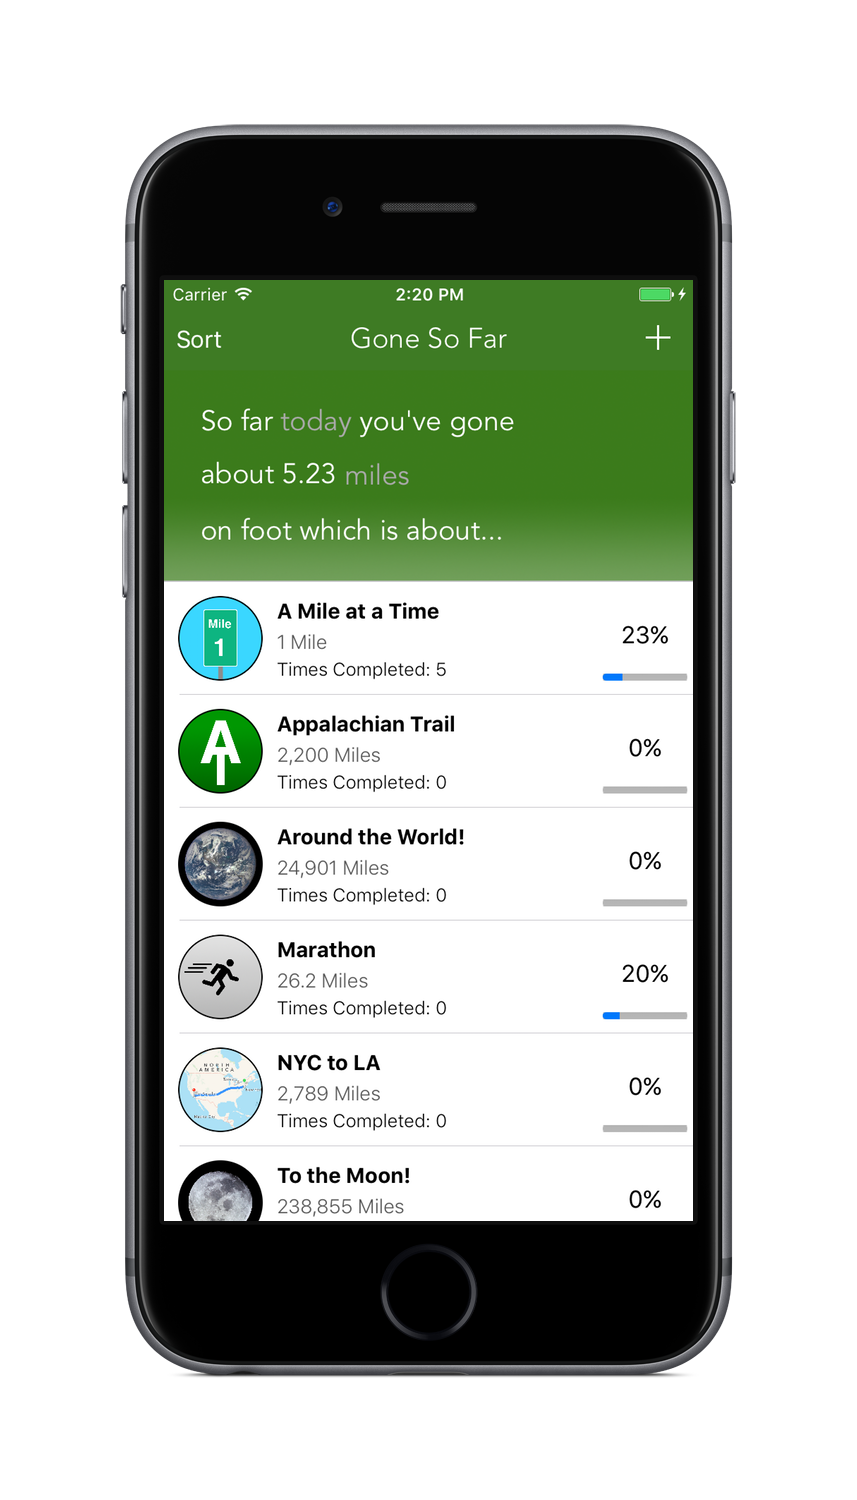
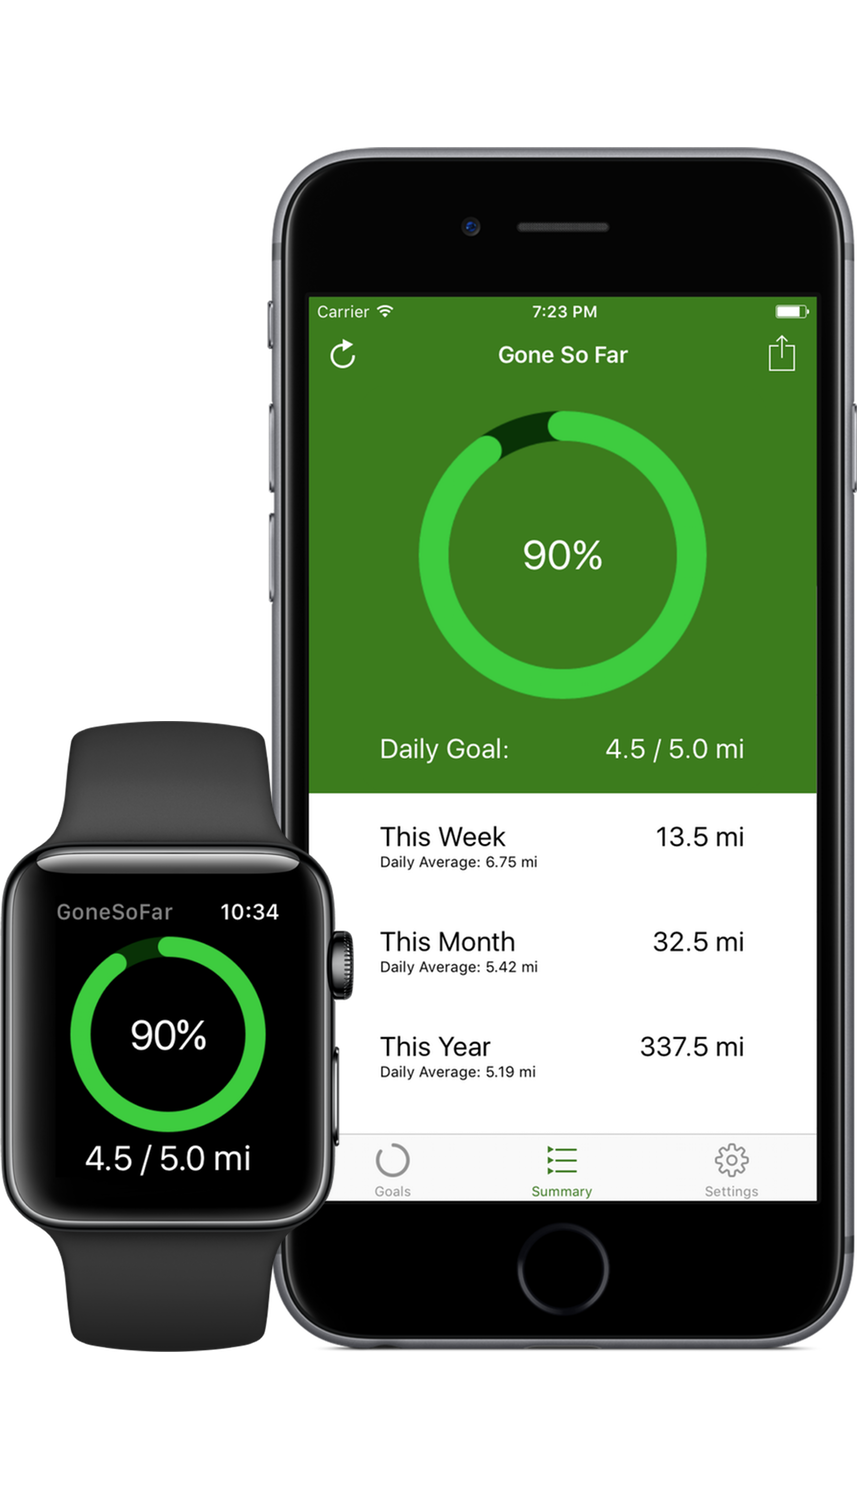
Updates.

diff --git a/posts/03-10-17_GSF-v2.html b/posts/03-10-17_GSF-v2.html
@@ -1,0 +1,110 @@
+
+<!DOCTYPE html>
+<html lang="en">
+
+<head>
+    <!-- ====== Title ====== -->
+    <title>Peter Mostoff - Blog</title>
+
+    <!-- ====== Meta ====== -->
+    <meta charset="utf-8">
+    <meta name="viewport" content="width=device-width, initial-scale=1.0">
+    <meta name="description" content="">
+    <!-- ====== End Meta ====== -->
+
+    <!-- ====== Favicon link ====== -->
+    <link rel="icon" href="../assets/images/favicon.png">
+    <!-- ====== Bootstrap CSS ====== -->
+    <link rel="stylesheet" href="../assets/css/bootstrap.min.css">
+    <!-- ====== Custom Theme CSS ====== -->
+    <link rel="stylesheet" href="../assets/css/theme.css">
+</head>
+
+<body data-spy="scroll">
+
+    <!-- ====== Header ====== -->
+    <header id="header" class="header">
+        <div class="container">
+            <h1 class="logo pull-left">
+                <a href="../index.html">
+                    <span class="logo-title">Mostoff.me</span>
+                </a>
+            </h1>
+            <nav id="main-nav" class="main-nav navbar-right">
+                <div class="navbar-header">
+                    <div class="btns back-button">
+                        <a class="btn btn-primary" href="../blog.html">Blog</a>
+                    </div>
+                    <!-- <button class="navbar-toggle" type="button" data-toggle="collapse" data-target="#navbar-collapse">
+                        <span class="sr-only">Toggle navigation</span>
+                        <span class="icon-bar"></span>
+                        <span class="icon-bar"></span>
+                        <span class="icon-bar"></span>
+                    </button> -->
+                </div>
+                <!-- <div class="navbar-collapse collapse" id="navbar-collapse">
+                    <ul class="nav navbar-nav">
+                        <li class="nav-item"><a class="scrollto" href="#about">About Me</a></li>
+                        <li class="nav-item"><a class="scrollto" href="#mywork">My Work</a></li>
+                        <li class="nav-item"><a class="scrollto" href="#blog">Blog</a></li>
+                        <li class="nav-item"><a class="scrollto" href="#contact">Contact</a></li>
+                    </ul>
+                </div> -->
+            </nav>
+        </div>
+    </header>
+    <!-- ====== End Header ====== -->
+
+    <!-- ====== Content ====== -->
+    <section id="content" class="content section">
+        <div class="container">
+            <div class="content-inner">
+                <div class="container">
+                    <div class="col-xs-12 col-sm-10 col-md-10">
+                        <h1>Gone So Far v2.0</h1>
+                        <h5>March, 10, 2017</h5>
+                        <hr>
+                    </div>
+                    <div class="col-xs-12 col-sm-10 col-md-10 doubleSpacing">
+                        <h3>A big (and overdue) update.</h3>
+                        <p>So it's been a while. Skipping to the good part, I've finally gotten around to puttting some work into app development again. I've been wanting to do an update for Gone So Far for quite some time now but, you know, life gets in the way of life sometimes. Over the past month or so, I've been able to hide away in my free time and get some coding done. </p>
+                        <p>So let's get to what's changed...</p>
+                        <h3>Some of the new bits: </h3>
+                        <ul>
+                          <li>Redesigned overall style of the app</li>
+                          <li>Summary tab that let's you get at your recent movement in a glance</li>
+                          <li>New Daily Goal feature to keep you moving</li>
+                          <li>Today Widget for quickly checking Daily Goal progress</li>
+                          <li>Apple Watch app for quickly checking Daily Goal progress</li>
+                          <li>Complications for your watch faces</li>
+                        </ul>
+                        <p>And finally... a complete rewrite for Swift 3. This was a big one. Swift is still a new language and while it's great in a lot of ways, it still has a bit of growing up to do. This was especially true when I originally wrote the app in Swift version 2. Since then, Swift 3 was released which changed a lot. Swift 3 made a lot of things about the language better and more useable but in turnit also ended up breaking a lot of things for apps written in Swift 2. In all honesty, it wasn't THAT bad. However, along with a busy schedule, it was a bit difficult for me at first to figure out all of the changes and get things fixed.</p>
+                        <p>After a while (maybe a few months...) of sporadically picking at code when I had the free time, I realized that it might just be best to start over. So I did! Very few pieces of the original app exist in version 2.0. I used my original project as a reference for some bits but for the most part it was a complete re-do. It was a bit more work than just updating but it gave me the chance to rethink some of the ways I was doing things and re-examine some core ideas that I had with version 1.0. In the end, the original app (adding goals and comparing) became a feature rather than the main focus.</p>
+                        <p>I'm more excited about this update than I thought I'd be. That probably has a lot to do with me thinking that it would be a simple update in code. With version 2.0 I feel like I've made something that comes even closer to my original goalfor the app. I wanted to make something to motivate myself to get up and go for walks more often. I was in pretty bad shape when I started the original project and during testing I had to walk a lot to test it out (I'm happy to say that a year later, I'm much more fit!). With v2, I think the Daily Goal feature and Summary screen make a much better argument for making me (and hopefully others) get up each day and hit my goal. I've gotta say, I'm proud of this one.</p>
+                        <p>So, what's next? I have a few more ideas for improvements and new features that I'd like to put into the app. Some of them... well I'm not quite sure how possible they are, so I'll have to play around with things and see what I can do. Either way, I hope to be much better about getting updates for important things (like new system features and compatability) out quickly now that I'm back into the swing of things. I also have a list of other app ideas that I'd like to try to work on, so hopefully I can find the time to do that as well. I'll probably post here if there's any news on those fronts.</p>
+                        <p>I really hope that anyone who uses Gone So Far enjoys it and finds it worth while. The original motivation still stands: I wanted to make something I would want to use and release it into the world for anyone else who could find it useful too.</p>
+                        <p><a href="https://itunes.apple.com/us/app/gone-so-far/id1080412492?ls=1&mt=8">Here’s a link to Gone So Far ($0.99) on the App Store.</a></p>
+                    </div>
+                </div>
+            </div>
+        </div>
+    </section>
+    <!-- ====== End Content ====== -->
+
+    <!-- ====== Footer ====== -->
+    <footer class="footer">
+        <div class="container">
+            <p>&copy; 2017 Peter Mostoff</p>
+        </div>
+    </footer>
+    <!-- ====== End Footer ====== -->
+
+    <!-- ====== Javascript ====== -->
+    <script type="text/javascript" src="../assets/scripts/jquery-2.2.0.min.js"></script>
+    <script type="text/javascript" src="../assets/scripts/jquery.easing.1.3.js"></script>
+    <script type="text/javascript" src="../assets/scripts/jquery.scrollTo.js"></script>
+    <script type="text/javascript" src="../assets/scripts/bootstrap.min.js"></script>
+    <script type="text/javascript" src="../assets/scripts/main.js"></script>
+    <!-- ====== End Javascript ====== -->
+</body>
+</html>

diff --git a/index.html b/index.html
@@ -86,11 +86,11 @@
                 <div class="col-xs-12 col-sm-6 col-md-4 col-centered">
                     <div class="panel panel-default">
                         <div class="panel-body doubleSpacing">
-                            <img class="PreviewImage" src="assets/images/GoneSoFar/GoneSoFar_Promo.png" alt="Project Thumbnail"/>
+                            <img class="PreviewImage" src="assets/images/Blog-Thumbnails/GoneSoFar_Promo_v2.png" alt="Project Thumbnail"/>
                         </div>
                         <div class="panel-footer">
                             <h4>Gone So Far</h4>
-                            <p>An iPhone app that let's you compare how far you've walked to different distances around the world!</p>
+                            <p>A simple and intuitive fitness tracker designed to motivate!</p>
                             <a class="btn btn-primary" href="gonesofar/index.html">More Details...</a>
                         </div>
                     </div>
@@ -145,6 +145,22 @@
                     <div class="col-xs-12 col-sm-6 col-md-4 col-centered">
                         <div class="panel panel-default">
                             <div class="panel-body doubleSpacing">
+                                <img class="PreviewImage" src="assets/images/Blog-Thumbnails/GoneSoFar_Promo_v2.png" alt="Blog Post Thumbnail"/>
+                            </div>
+                            <div class="panel-footer">
+                                <h4>Gone So Far v2.0</h4>
+                                <p>
+                                    Details about v2.0, a major update that I've been working on!
+                                </p>
+                                <br/>
+                                <a class="btn btn-primary" href="posts/03-10-17_GSF-v2.html">View Post</a>
+                            </div>
+                        </div>
+                    </div>
+                    <!-- Post 2 -->
+                    <div class="col-xs-12 col-sm-6 col-md-4 col-centered">
+                        <div class="panel panel-default">
+                            <div class="panel-body doubleSpacing">
                                 <img class="PreviewImage" src="assets/images/Blog-Thumbnails/Website.png" alt="Blog Post Thumbnail"/>
                             </div>
                             <div class="panel-footer">
@@ -154,22 +170,6 @@
                                 </p>
                                 <br/>
                                 <a class="btn btn-primary" href="posts/02-16-16_Website-CMD-R.html">View Post</a>
-                            </div>
-                        </div>
-                    </div>
-                    <!-- Post 2 -->
-                    <div class="col-xs-12 col-sm-6 col-md-4 col-centered">
-                        <div class="panel panel-default">
-                            <div class="panel-body doubleSpacing">
-                                <img class="PreviewImage" src="assets/images/Blog-Thumbnails/GoneSoFar_Promo.png" alt="Blog Post Thumbnail"/>
-                            </div>
-                            <div class="panel-footer">
-                                <h4>Releasing My First App</h4>
-                                <p>
-                                    Some details about the release of my first app, Gone So Far.
-                                </p>
-                                <br/>
-                                <a class="btn btn-primary" href="posts/02-15-16_Releasing-My-First_App.html">View Post</a>
                             </div>
                         </div>
                     </div>
@@ -223,7 +223,7 @@
     <!-- ====== Footer ====== -->
     <footer class="footer">
         <div class="container">
-            <p>&copy; 2016 Peter Mostoff</p>
+            <p>&copy; 2017 Peter Mostoff</p>
         </div>
     </footer>
     <!-- ====== End Footer ====== -->

diff --git a/blog.html b/blog.html
@@ -61,7 +61,23 @@
             <div class="content-inner">
             <h2 class="title text-center">Blog</h2>
                 <div class="row row-centered">
-                    <!-- Post 1 -->
+                  <!-- Post 1 -->
+                  <div class="col-xs-12 col-sm-6 col-md-4 col-centered">
+                      <div class="panel panel-default">
+                          <div class="panel-body doubleSpacing">
+                              <img class="PreviewImage" src="assets/images/Blog-Thumbnails/GoneSoFar_Promo_v2.png" alt="Blog Post Thumbnail"/>
+                          </div>
+                          <div class="panel-footer">
+                              <h4>Gone So Far v2.0</h4>
+                              <p>
+                                  Details about v2.0, a major update that I've been working on!
+                              </p>
+                              <br/>
+                              <a class="btn btn-primary" href="posts/03-10-17_GSF-v2.html">View Post</a>
+                          </div>
+                      </div>
+                  </div>
+                    <!-- Post 2 -->
                     <div class="col-xs-12 col-sm-6 col-md-4 col-centered">
                         <div class="panel panel-default">
                             <div class="panel-body doubleSpacing">
@@ -77,11 +93,11 @@
                             </div>
                         </div>
                     </div>
-                    <!-- Post 2 -->
+                    <!-- Post 3 -->
                     <div class="col-xs-12 col-sm-6 col-md-4 col-centered">
                         <div class="panel panel-default">
                             <div class="panel-body doubleSpacing">
-                                <img class="PreviewImage" src="assets/images/Blog-Thumbnails/GoneSoFar_Promo.png" alt="Blog Post Thumbnail"/>
+                                <img class="PreviewImage" src="assets/images/Blog-Thumbnails/GoneSoFar_Promo_v1.png" alt="Blog Post Thumbnail"/>
                             </div>
                             <div class="panel-footer">
                                 <h4>Releasing My First App</h4>
@@ -93,7 +109,7 @@
                             </div>
                         </div>
                     </div>
-                    <!-- Post 3 -->
+                    <!-- Post 4 -->
                     <div class="col-xs-12 col-sm-6 col-md-4 col-centered">
                         <div class="panel panel-default">
                             <div class="panel-body doubleSpacing">
@@ -118,7 +134,7 @@
     <!-- ====== Footer ====== -->
     <footer class="footer">
         <div class="container">
-            <p>&copy; 2016 Peter Mostoff</p>
+            <p>&copy; 2017 Peter Mostoff</p>
         </div>
     </footer>
     <!-- ====== End Footer ====== -->

diff --git a/gonesofar/index.html b/gonesofar/index.html
@@ -70,18 +70,22 @@
                             <br><br>
                             <h1>Gone So Far</h1>
                             <hr>
-                            <h4>An easy way to keep track of how far you've been walking!</h4>
+                            <h4>A simple and intuitive fitness tracker designed to motivate!</h4>
                             <br>
                             <ul>
-                                <li>Quick and easy to add new goals or to edit and delete old ones!</li>
+                                <li>Set a Daily Goal to keep you motivated!</li>
                                 <br>
-                                <li>Compare how far you've gone to distances around the world!</li>
+                                <li>Get an overview of your movement in the Summary tab!</li>
                                 <br>
-                                <li>Share progress on your goals easily with friends and social media!</li>
+                                <li>Set Stretch Goals in the Goals tab and compare your progress ot distances that you choose!</li>
                                 <br>
-                                <li>Support for both Miles and Kilometers. Easy and fast to switch!</li>
+                                <li>Apple Watch support with a simple app that let's you view your daily goal progress and complications for at a glance updates!</li>
                                 <br>
-                                <li>Easily switch between looking at how far you've gone today, during the week, the month, the year, and the entire history of what your phone has recorded!</li>
+                                <li>Today Widget support allows you to quickly check your daily goal progress without entering the app!</li>
+                                <br>
+                                <li>Quickly and easily share your progress on your daily goal or any of your stretch goals through a text or social network!</li>
+                                <br>
+                                <li>Simple settings that get synced to the Watch app and Today Widget. Set it inone place and the app takes care of the rest!</li>
                             </ul>
                             <hr>
                             <p>Please feel free to send any support related questions to <a href="http://twitter.com/gonesofarapp">@GoneSoFarApp</a></p>
@@ -105,7 +109,7 @@
     <!-- ====== Footer ====== -->
     <footer class="footer">
         <div class="container">
-            <p>&copy; 2016 Peter Mostoff</p>
+            <p>&copy; 2017 Peter Mostoff</p>
         </div>
     </footer>
     <!-- ====== End Footer ====== -->

diff --git a/resume.html b/resume.html
@@ -127,7 +127,7 @@
     <!-- ====== Footer ====== -->
     <footer class="footer">
         <div class="container">
-            <p>&copy; 2016 Peter Mostoff</p>
+            <p>&copy; 2017 Peter Mostoff</p>
         </div>
     </footer>
     <!-- ====== End Footer ====== -->

diff --git a/404.html b/404.html
@@ -71,7 +71,7 @@
     <!-- ====== Footer ====== -->
     <footer class="footer">
         <div class="container">
-            <p>&copy; 2016 Peter Mostoff</p>
+            <p>&copy; 2017 Peter Mostoff</p>
         </div>
     </footer>
     <!-- ====== End Footer ====== -->

diff --git a/about.html b/about.html
@@ -94,7 +94,7 @@
     <!-- ====== Footer ====== -->
     <footer class="footer">
         <div class="container">
-            <p>&copy; 2016 Peter Mostoff</p>
+            <p>&copy; 2017 Peter Mostoff</p>
         </div>
     </footer>
     <!-- ====== End Footer ====== -->

diff --git a/gonesofar/privacy.html b/gonesofar/privacy.html
@@ -98,7 +98,7 @@
     <!-- ====== Footer ====== -->
     <footer class="footer">
         <div class="container">
-            <p>&copy; 2016 Peter Mostoff</p>
+            <p>&copy; 2017 Peter Mostoff</p>
         </div>
     </footer>
     <!-- ====== End Footer ====== -->

diff --git a/posts/02-12-16_Hello-World.html b/posts/02-12-16_Hello-World.html
@@ -83,7 +83,7 @@
     <!-- ====== Footer ====== -->
     <footer class="footer">
         <div class="container">
-            <p>&copy; 2016 Peter Mostoff</p>
+            <p>&copy; 2017 Peter Mostoff</p>
         </div>
     </footer>
     <!-- ====== End Footer ====== -->

diff --git a/posts/02-15-16_Releasing-My-First_App.html b/posts/02-15-16_Releasing-My-First_App.html
@@ -90,7 +90,7 @@
     <!-- ====== Footer ====== -->
     <footer class="footer">
         <div class="container">
-            <p>&copy; 2016 Peter Mostoff</p>
+            <p>&copy; 2017 Peter Mostoff</p>
         </div>
     </footer>
     <!-- ====== End Footer ====== -->

diff --git a/posts/02-16-16_Website-CMD-R.html b/posts/02-16-16_Website-CMD-R.html
@@ -87,7 +87,7 @@
     <!-- ====== Footer ====== -->
     <footer class="footer">
         <div class="container">
-            <p>&copy; 2016 Peter Mostoff</p>
+            <p>&copy; 2017 Peter Mostoff</p>
         </div>
     </footer>
     <!-- ====== End Footer ====== -->

diff --git a/posts/BlogPostTemplate.html b/posts/BlogPostTemplate.html
@@ -82,7 +82,7 @@
     <!-- ====== Footer ====== -->
     <footer class="footer">
         <div class="container">
-            <p>&copy; 2016 Peter Mostoff</p>
+            <p>&copy; 2017 Peter Mostoff</p>
         </div>
     </footer>
     <!-- ====== End Footer ====== -->
